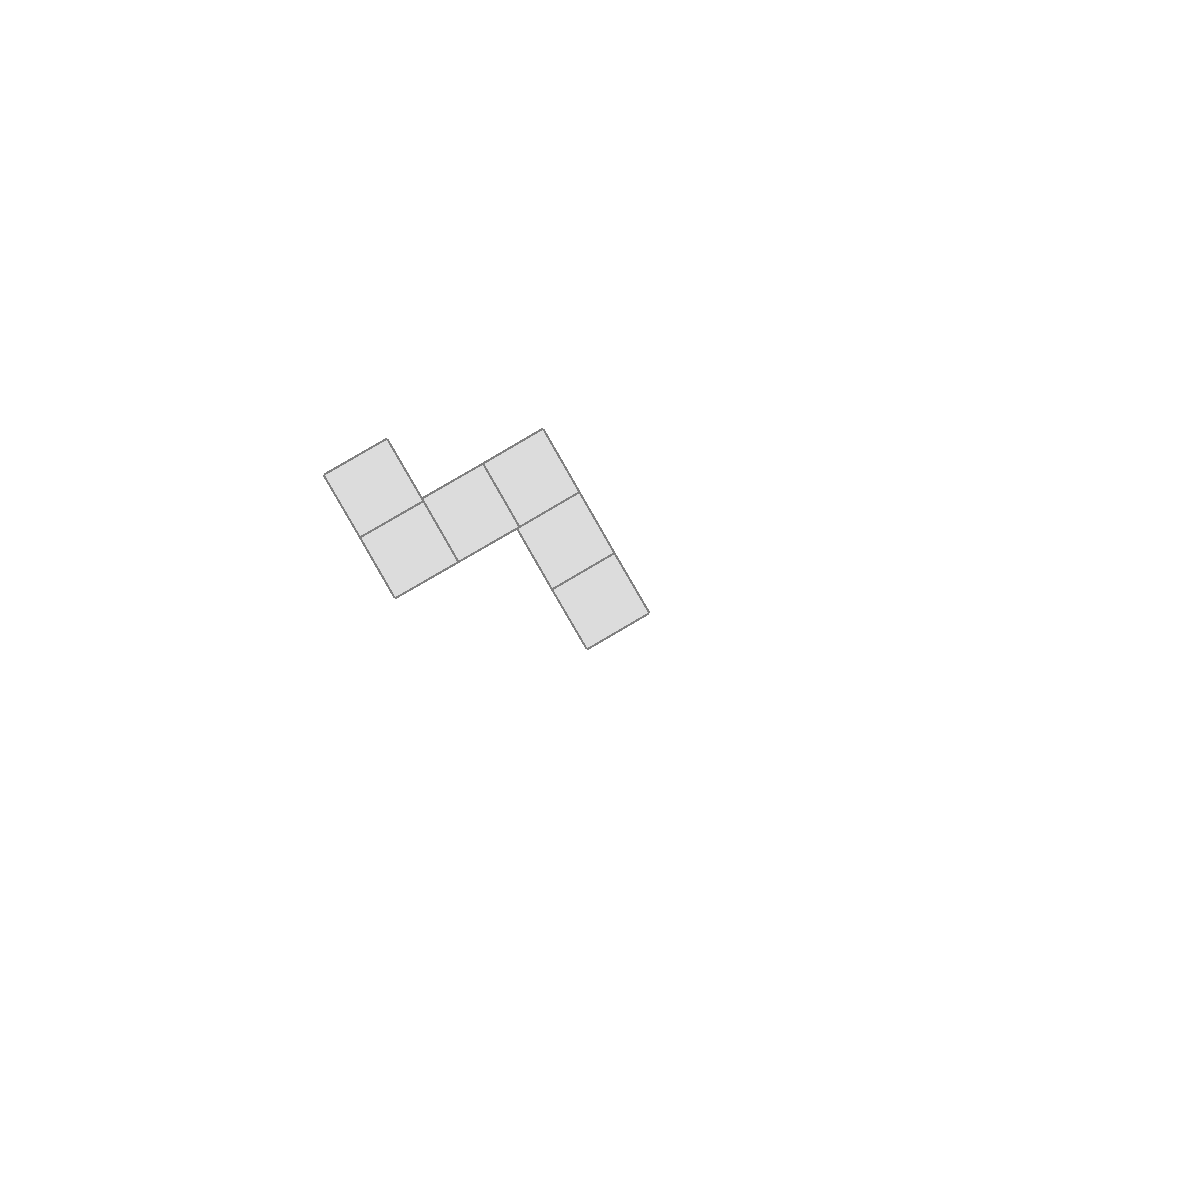
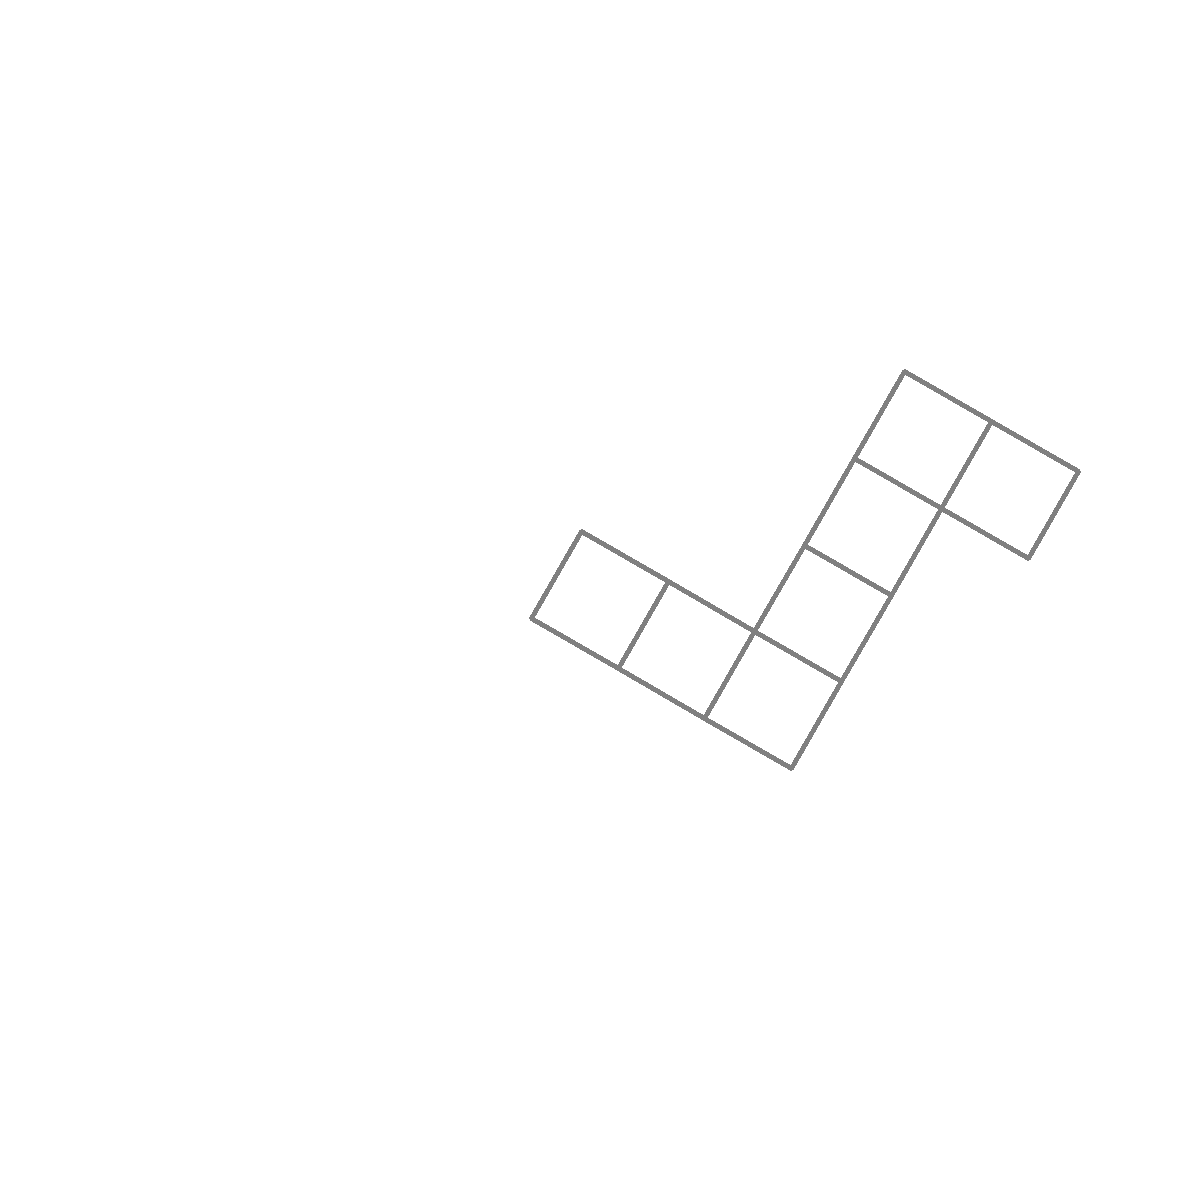
more 2d gen edits

diff --git a/gen_2d.py b/gen_2d.py
@@ -54,7 +54,7 @@ def get_rects(center, theta, side_len, orientation):
     else: # horizontal leg
         theta = np.radians(np.degrees(theta) + 90)
         new_center = (center[0] + side_len * np.sin(theta), center[1] + side_len * np.cos(theta))
-    
+
     return new_center
 
 def translation(coord):
@@ -94,9 +94,8 @@ else:
 for i in range(legs[0]): #first leg, vertical
     center = get_rects(center, theta, side_len, 1)
 center = all_centers[-1]
-for i in range(legs[1] + 2): #second leg, horizontal
+for i in range(legs[1]+1): #second leg, horizontal
     center = get_rects(center, theta, side_len, 0)
-center = all_centers[-1]
 for i in range(legs[2]): #third leg, vertical
     center = get_rects(center, theta, side_len, 1)
 
@@ -116,8 +115,8 @@ for i in range(num_rects):
     cv.line(img, corners[3], corners[0], (128,128,128), 4)
 
     # fill in rectangle (light gray)
-    points = np.array([list(corners[0]), list(corners[1]), list(corners[2]), list(corners[3])])
-    cv.fillPoly(img, np.int32([points]), (220, 220, 220))
+    # points = np.array([list(corners[0]), list(corners[1]), list(corners[2]), list(corners[3])])
+    # cv.fillPoly(img, np.int32([points]), (220, 220, 220))
 
 # change black background to white
 img[img == 0] = 255
